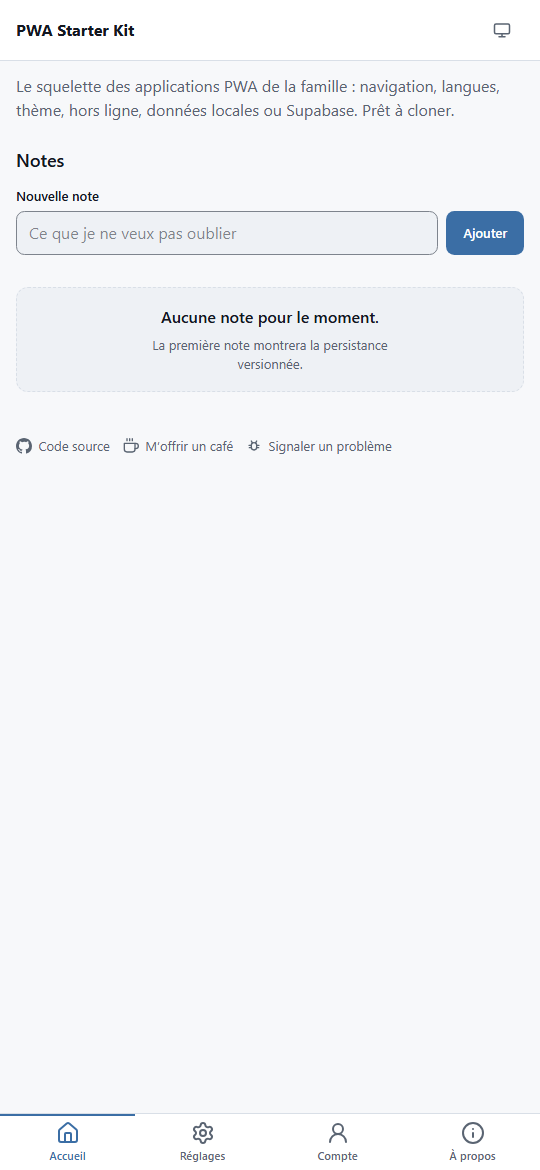
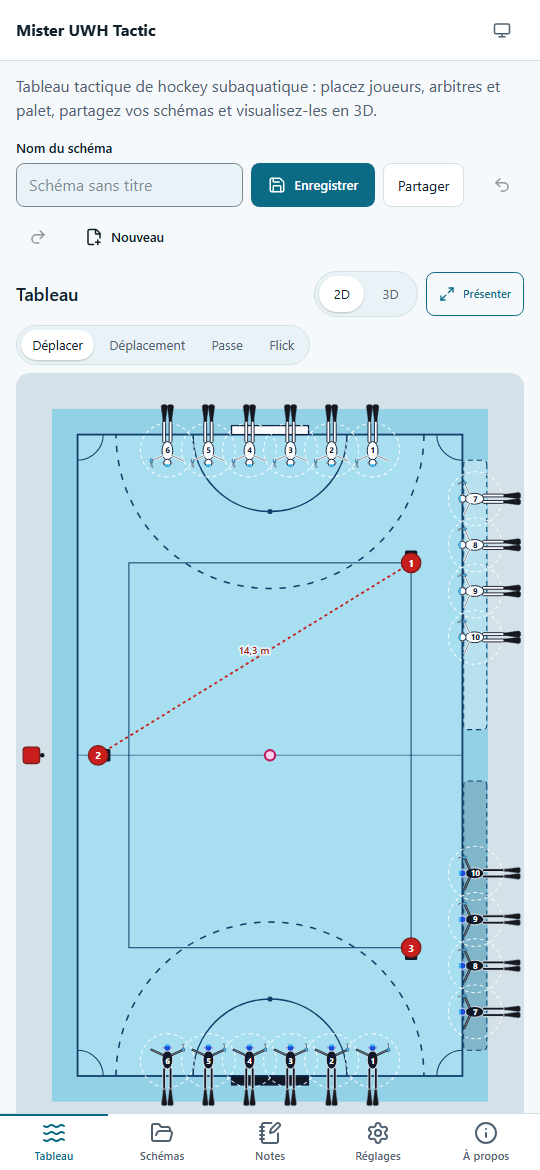
feat: captures, image de partage et page anglaise ; tests de bout en bout
Les captures du manifeste et l'image de partage montraient encore l'écran
de notes du squelette : elles montrent le tableau. La page de contenu a sa
traduction anglaise, appariée par `translation`.

Les e2e couvrent annuler/rétablir, l'outil flèche, le tir de pénalité, la
frise d'apnée, et une vérification VISUELLE de la 3D : le canevas est
photographié, et l'eau du bassin et le rouge des arbitres doivent y être.
Une scène qui se monte sans erreur et reste noire ne passe plus.

Au passage : la capture du pointeur part toujours au SVG entier (tracer une
flèche depuis un jeton ne marchait pas), le plein écran s'écrit en quelques
lignes plutôt que par un module expérimental du socle, le bouton des
compositions devient « Placer l'équipe », et le budget de poids est reposé
au relevé + 10 % (608 / 203 / 600 kB).

diff --git a/e2e/tableau.spec.ts b/e2e/tableau.spec.ts
@@ -1,4 +1,5 @@
 import { expect, test, type Page } from '@playwright/test';
+import sharp from 'sharp';
 import { createTactic, playerId } from '../src/features/board/model.ts';
 import { encodeTactic } from '../src/features/board/share.ts';
 
@@ -108,7 +109,7 @@ test.describe('@critical le tableau tactique', () => {
     await page.getByRole('tab', { name: 'Noirs' }).click();
     await page.getByLabel('Composition', { exact: true }).selectOption('2-2-2');
     await page.getByLabel('Nommer les joueurs d’après leur poste').check();
-    await page.getByRole('button', { name: 'Placer', exact: true }).click();
+    await page.getByRole('button', { name: 'Placer l’équipe' }).click();
     await expect(page.getByText('Noirs en 2-2-2.')).toBeVisible();
     await expect(
       page.getByRole('button', { name: /^Noir 1, Av G,/ })
@@ -133,5 +134,113 @@ test.describe('@critical le tableau tactique', () => {
     await page.getByRole('tab', { name: 'Immersion' }).click();
     await page.waitForTimeout(500);
     expect(errors).toEqual([]);
+  });
+
+  test('Annuler ramène un joueur déplacé, Rétablir le repousse', async ({
+    page,
+  }) => {
+    await page.goto('/');
+    const before = await positionOf(page, 'Blanc 1,');
+    // La distance, pas un axe : sur un téléphone le terrain est dressé.
+    const moved = async () => {
+      const now = await positionOf(page, 'Blanc 1,');
+      return Math.hypot(now.x - before.x, now.y - before.y);
+    };
+    const token = page.getByRole('button', { name: /^Blanc 1,/ });
+    await token.focus();
+    await page.keyboard.press('ArrowDown');
+    await expect.poll(moved).toBeCloseTo(0.5);
+    await page.getByRole('button', { name: 'Annuler', exact: true }).click();
+    await expect.poll(moved).toBeCloseTo(0);
+    await page.getByRole('button', { name: 'Rétablir' }).click();
+    await expect.poll(moved).toBeCloseTo(0.5);
+  });
+
+  test('l’outil Passe trace une flèche, listée et supprimable', async ({
+    page,
+  }) => {
+    await page.goto('/');
+    await page.getByRole('tab', { name: 'Passe' }).click();
+    const board = page.getByRole('group', { name: /Terrain de hockey/ });
+    // Le geste doit tomber dans la fenêtre : un tableau sous la ligne de
+    // flottaison ne reçoit rien.
+    await board.scrollIntoViewIfNeeded();
+    const box = (await board.boundingBox())!;
+    await page.mouse.move(box.x + box.width * 0.5, box.y + box.height * 0.5);
+    await page.mouse.down();
+    await page.mouse.move(box.x + box.width * 0.65, box.y + box.height * 0.4, {
+      steps: 5,
+    });
+    await page.mouse.up();
+    await expect(page.getByText(/^Passe, \d/)).toBeVisible();
+    await page.getByRole('button', { name: 'Supprimer la flèche 1' }).click();
+    await expect(page.getByText(/^Passe, \d/)).toHaveCount(0);
+  });
+
+  test('un tir de pénalité se place selon le règlement', async ({ page }) => {
+    await page.goto('/');
+    await page
+      .getByLabel('Situation', { exact: true })
+      .selectOption('penalty-blanc');
+    await page.getByRole('button', { name: 'Placer', exact: true }).click();
+    await expect(
+      page.getByText('Tir de pénalité contre les Blancs : étape replacée.')
+    ).toBeVisible();
+    // Le défenseur blanc au mur de son but, le palet sur le point de pénalité.
+    expect((await positionOf(page, 'Blanc 1,')).x).toBeLessThan(1);
+    const puck = page
+      .getByRole('button', { name: 'Palet' })
+      .locator('circle')
+      .last();
+    expect(Number(await puck.getAttribute('cx'))).toBeCloseTo(3);
+  });
+
+  test('la frise d’apnée signale un joueur resté trop longtemps au fond', async ({
+    page,
+  }) => {
+    await page.goto('/');
+    const token = page.getByRole('button', { name: /^Blanc 1,/ });
+    await token.focus();
+    await page.keyboard.press('s');
+    const duration = page.getByLabel(/Durée de l’étape/);
+    await duration.fill('10');
+    await page.getByRole('button', { name: 'Ajouter une étape' }).click();
+    await page.getByLabel(/Durée de l’étape/).fill('10');
+    await expect(page.locator('.uwh-apnea td[data-state="over"]')).toHaveCount(
+      1
+    );
+    await expect(
+      page.getByRole('button', { name: /^Blanc 1, .*au-delà du seuil/ })
+    ).toBeVisible();
+  });
+
+  /*
+   * LA 3D, VUE ET NON SEULEMENT CHARGÉE. Une scène peut se monter sans
+   * erreur et rester noire. On photographie le canevas, et on y cherche ce
+   * qu'on doit y voir : l'eau du bassin, et le rouge des arbitres.
+   */
+  test('la vue 3D montre le bassin et les arbitres', async ({ page }) => {
+    await page.emulateMedia({ reducedMotion: 'reduce' });
+    await page.goto('/');
+    await page.getByRole('tab', { name: '3D' }).click();
+    const canvas = page.getByRole('img', { name: /Vue 3D du bassin/ });
+    const fallback = page.getByText(/La 3D n’est pas disponible/);
+    await expect(canvas.or(fallback)).toBeVisible({ timeout: 15_000 });
+    test.skip(await fallback.isVisible(), 'pas de WebGL dans ce navigateur');
+    await page.waitForTimeout(1500);
+    const png = await canvas.screenshot();
+    const { data, info } = await sharp(png)
+      .raw()
+      .toBuffer({ resolveWithObject: true });
+    let water = 0;
+    let red = 0;
+    for (let i = 0; i < data.length; i += info.channels) {
+      const [r, g, b] = [data[i]!, data[i + 1]!, data[i + 2]!];
+      if (b > 150 && g > 150 && r < 200 && b > r + 20) water += 1;
+      if (r > 150 && g < 90 && b < 90) red += 1;
+    }
+    const pixels = info.width * info.height;
+    expect(water / pixels).toBeGreaterThan(0.05);
+    expect(red).toBeGreaterThan(20);
   });
 });

diff --git a/src/features/board/BoardScreen.tsx b/src/features/board/BoardScreen.tsx
@@ -40,7 +40,6 @@ import { SkeletonGroup } from '@mister-guiiug/dev-pwa-config/react/skeleton';
 import { useToast } from '@mister-guiiug/dev-pwa-config/react/toast';
 import { useIdlePrefetch } from '@mister-guiiug/dev-pwa-config/react/use-prefetch';
 import { useMediaQuery } from '@mister-guiiug/dev-pwa-config/react/use-media-query';
-import { useFullscreen } from '@mister-guiiug/dev-pwa-config/react/use-fullscreen';
 import { useWakeLock } from '@mister-guiiug/dev-pwa-config/react/use-wake-lock';
 import { useLocalStorage } from '@mister-guiiug/dev-pwa-config/react/use-local-storage';
 import { createUuid } from '@mister-guiiug/dev-pwa-config/id';
@@ -86,6 +85,38 @@ type View = '2d' | '3d' | 'both';
 type Tool = 'select' | ArrowKind;
 
 const appBase = () => `${window.location.origin}${import.meta.env.BASE_URL}`;
+
+/**
+ * LE PLEIN ÉCRAN, en quelques lignes plutôt que par `react/use-fullscreen`,
+ * que le socle publie encore comme expérimental (`pwa-doctor` le signale).
+ */
+function useFullscreenState() {
+  const supported =
+    typeof document !== 'undefined' &&
+    typeof document.documentElement.requestFullscreen === 'function';
+  const [active, setActive] = useState(
+    () => typeof document !== 'undefined' && !!document.fullscreenElement
+  );
+  useEffect(() => {
+    const sync = () => setActive(!!document.fullscreenElement);
+    document.addEventListener('fullscreenchange', sync);
+    return () => document.removeEventListener('fullscreenchange', sync);
+  }, []);
+  return {
+    supported,
+    active,
+    enter: async () => {
+      try {
+        await document.documentElement.requestFullscreen();
+      } catch {
+        // Refusé (iOS, iframe) : la présentation reste dans la page.
+      }
+    },
+    exit: async () => {
+      if (document.fullscreenElement) await document.exitFullscreen();
+    },
+  };
+}
 
 /** Une saisie en cours ne se fait pas voler Ctrl+Z par le tableau. */
 const typing = (target: EventTarget | null) =>
@@ -134,7 +165,7 @@ export function BoardScreen() {
    * LE MODE PRÉSENTATION : plein écran, écran maintenu allumé, de grands
    * boutons. Pour montrer une phase sur une tablette au bord du bassin.
    */
-  const fullscreen = useFullscreen();
+  const fullscreen = useFullscreenState();
   const [presenting, setPresenting] = useState(false);
   useWakeLock(presenting);
   useEffect(() => {

diff --git a/src/i18n/messages.ts b/src/i18n/messages.ts
@@ -90,7 +90,7 @@ const fr = {
       'Place les six joueurs dans l’eau d’une équipe, dans sa moitié, sur l’étape en cours. Lue d’avant en arrière : 3-2-1, ce sont trois avants, deux pivots, un arrière.',
     formationTeam: 'Équipe',
     formationPick: 'Composition',
-    formationApply: 'Placer',
+    formationApply: 'Placer l’équipe',
     formationNames: 'Nommer les joueurs d’après leur poste',
     formationDone: '{team} en {formation}.',
     teamWhite: 'Blancs',
@@ -396,7 +396,7 @@ const en: typeof fr = {
       'Places a team’s six players in the water in its own half, on the current step. Read front to back: 3-2-1 is three forwards, two mids, one back.',
     formationTeam: 'Team',
     formationPick: 'Line-up',
-    formationApply: 'Place',
+    formationApply: 'Place the team',
     formationNames: 'Name players after their position',
     formationDone: '{team} in {formation}.',
     teamWhite: 'White',

diff --git a/src/features/board/Board2D.tsx b/src/features/board/Board2D.tsx
@@ -489,11 +489,11 @@ export function Board2D({
     return { x: p.x, y: p.y };
   };
 
+  /** La capture va toujours au SVG entier : il reçoit la suite du geste. */
   const capture = (event: PointerEvent) =>
-    (event.currentTarget as SVGElement).ownerSVGElement?.setPointerCapture?.(
-      event.pointerId
-    ) ??
-    (event.currentTarget as SVGSVGElement).setPointerCapture?.(event.pointerId);
+    (event.currentTarget as Element)
+      .closest('svg')
+      ?.setPointerCapture?.(event.pointerId);
 
   /** L'outil flèche : un glisser trace une flèche, d'un jeton ou d'un point. */
   const startArrow = (event: PointerEvent, from: Point) => {

diff --git a/content/pages/en/explain-an-underwater-hockey-play.md b/content/pages/en/explain-an-underwater-hockey-play.md
@@ -1,0 +1,35 @@
+---
+title: Explain an underwater hockey play with a tactics board, in 2D and 3D
+description: Place the players, break a play into steps, show who stays at the surface and who dives, track breath-hold, place the referees: the method, step by step, with a tactics board in 2D and 3D.
+date: 2026-11-18
+translation: expliquer-une-phase-de-jeu-au-hockey-subaquatique
+answer: To explain an underwater hockey play, start from a position everyone knows, such as the start of play, then break it into short steps where only the players who move change place. For each step, say who is at the surface and who plays on the bottom, give the step its real duration, and write a one-line cue. Replaying it as an animation, then watching it in 3D, shows the depth that a top-down diagram cannot.
+---
+
+# Explain an underwater hockey play
+
+In underwater hockey, the game happens on the bottom, breathing at the surface, and the two alternate all the time. A play is hard to explain out loud: you have to say where everyone is, but also at what depth, and when they go back down. A tactics board makes it visible.
+
+## Start from a position everyone knows
+
+The start of play is the only line-up the rules impose: each team against its end wall, the puck in the centre. In Mister UWH Tactic it is the position of a new board, and the rule situations also place an equal puck, an advantage puck or a penalty shot as the international rules describe them.
+
+## Line a team up
+
+A line-up reads front to back: in 3-2-1, three players up front near the halfway line, two in the middle, one back in front of the goal. The most common are 3-2-1, 2-3-1, 2-2-2, 1-2-1-2, 2-1-3 and 1-2-3. The board places one in a single gesture, in the team's own half, and can name the positions.
+
+## Break it into short steps
+
+A step is a moment of the play. A new step starts as a copy of the previous one, and you only move the players who move. The ghost of the previous step shows who moved, and by how much. Arrows show a run, a pass along the bottom, or a flick that lifts the puck.
+
+## Say who is at the surface, and for how long
+
+For each player and each step, choose "at the surface" or "underwater", and give each step its real duration. The breath-hold timeline adds up each player's consecutive seconds on the bottom and flags anyone beyond the limit: that is where a play falls apart, when a player who must breathe leaves a hole on the bottom.
+
+## Place the referees and the substitutes
+
+A team has six players in the water and four substitutes, who come on and off through their substitution area along the side. Officiating takes three referees in the water and one on deck. The water referees' field of view, shown as an option, reveals what they cannot see.
+
+## Replay, watch in 3D, take it with you
+
+Playback runs the steps as an animation. The 3D view shows the same play in the pool at its real depth: from the stands, underwater, or through the eyes of a player or a referee. Then print one thumbnail per step, record a video from the 3D view, or show a QR code: the link carries the whole play, and opens without an account.

diff --git a/README.md b/README.md
@@ -29,14 +29,31 @@ et profondeur se règlent dans les bornes du règlement (21–25 m × 12–15 m,
   (flèches, Q/E pour tourner, S pour la profondeur, Entrée pour la fiche).
 
 **Les phases de jeu.** Une phase est une suite d'étapes, chacune avec sa
-consigne. Une étape naît copie de la précédente : on ne déplace que ceux qui
-bougent. La lecture enchaîne les étapes en animation, à trois vitesses, et les
-joueurs plongent ou remontent entre deux étapes.
+consigne et sa durée de jeu réel. Une étape naît copie de la précédente : on
+ne déplace que ceux qui bougent. Le fantôme de l'étape précédente montre qui a
+bougé ; des flèches disent un déplacement, une passe ou un flick — qui fait
+décoller le palet en 3D. La lecture enchaîne les étapes en animation, à trois
+vitesses. Annuler / rétablir (Ctrl+Z, Ctrl+Y), sélection multiple (Maj + clic)
+pour déplacer ou tourner un groupe, remplacement d'un joueur par un remplaçant.
+
+**L'apnée.** Une frise par joueur dans l'eau : fond ou surface à chaque étape,
+les secondes de fond d'affilée, un seuil réglable ; au-delà, un anneau rouge
+sur le tableau. Le décompte par équipe dit qui tient le fond.
+
+**Les situations du règlement.** Engagement (15.1), palet neutre (17.5),
+palet d'avantage (17.6), tir de pénalité (17.8), placés en un geste d'après le
+texte du règlement CMAS, et les six compositions usuelles.
 
 **La 3D.** La même position dans le bassin, à sa vraie profondeur : depuis la
 tribune, de dessus, sous l'eau, ou depuis les yeux du joueur ou de l'arbitre
 sélectionné. Les jetons s'y saisissent et s'y déplacent aussi. Houle,
-caustiques et battements de palmes s'arrêtent sous `prefers-reduced-motion`.
+caustiques et battements de palmes s'arrêtent sous `prefers-reduced-motion`,
+et le mode économie coupe ombres, caustiques et houle sur les téléphones
+modestes. Sur grand écran, 2D et 3D côte à côte ; partout, un mode
+présentation plein écran qui garde l'écran allumé.
+
+**Emporter la phase.** Une fiche à imprimer (une vignette par étape), une
+vidéo enregistrée depuis la 3D, un QR code du lien compressé.
 
 **Les schémas.** Enregistrés sur l'appareil, ouverts, exportés en JSON,
 importés, et partagés par un lien qui contient tout le schéma — dans le
@@ -122,7 +139,8 @@ npm run test:e2e
 ## Les décisions
 
 Héritées du squelette, et celle du tableau et de la 3D
-([0014](./docs/adr/0014-tableau-et-3d.md)) : [`docs/adr/`](./docs/adr/README.md).
+([0014](./docs/adr/0014-tableau-et-3d.md)), et celle de la synchronisation
+des schémas ([0015](./docs/adr/0015-schemas-synchronises.md)) : [`docs/adr/`](./docs/adr/README.md).
 
 ## Licence
 

diff --git a/content/pages/expliquer-une-phase-de-jeu-au-hockey-subaquatique.md b/content/pages/expliquer-une-phase-de-jeu-au-hockey-subaquatique.md
@@ -3,6 +3,7 @@ title: Expliquer une phase de jeu au hockey subaquatique avec un tableau tactiqu
 description: Placer les joueurs, décomposer une phase en étapes, montrer qui reste en surface et qui descend, situer les arbitres : la méthode, pas à pas, avec un tableau tactique en 2D et en 3D.
 date: 2026-11-17
 updated: 2026-11-18
+translation: explain-an-underwater-hockey-play
 answer: Pour expliquer une phase de jeu au hockey subaquatique, on part d'une position de départ, l'engagement par exemple, puis on la décompose en étapes courtes où seuls les joueurs qui bougent changent de place. Pour chaque étape, on indique qui est en surface et qui joue au fond, et on écrit une consigne d'une phrase. La rejouer en animation, puis la regarder en 3D, montre les profondeurs qu'un schéma vu de dessus ne montre pas.
 ---
 
@@ -25,6 +26,14 @@ Une étape, c'est un instant de la phase. On ajoute une étape : elle naît copi
 ## Dire qui est en surface et qui joue au fond
 
 C'est ce qui distingue un schéma de hockey subaquatique d'un schéma de football. Pour chaque joueur et chaque étape, on choisit « en surface » ou « sous l'eau ». En 2D, un joueur en surface a les bras écartés et une onde autour de lui. En 3D, il flotte à la surface, et l'animation le fait plonger ou remonter entre deux étapes.
+
+## Montrer le mouvement
+
+Le fantôme de l'étape précédente montre qui a bougé, et de combien. Des flèches disent un déplacement, une passe au fond, ou un flick qui fait décoller le palet.
+
+## Compter l'apnée
+
+Chaque étape a sa durée en jeu réel. La frise d'apnée cumule, pour chaque joueur, les secondes de fond d'affilée et signale qui dépasse le seuil : c'est là qu'une phase se défait, quand un joueur qui doit respirer laisse un trou au fond.
 
 ## Écrire une consigne par étape
 
